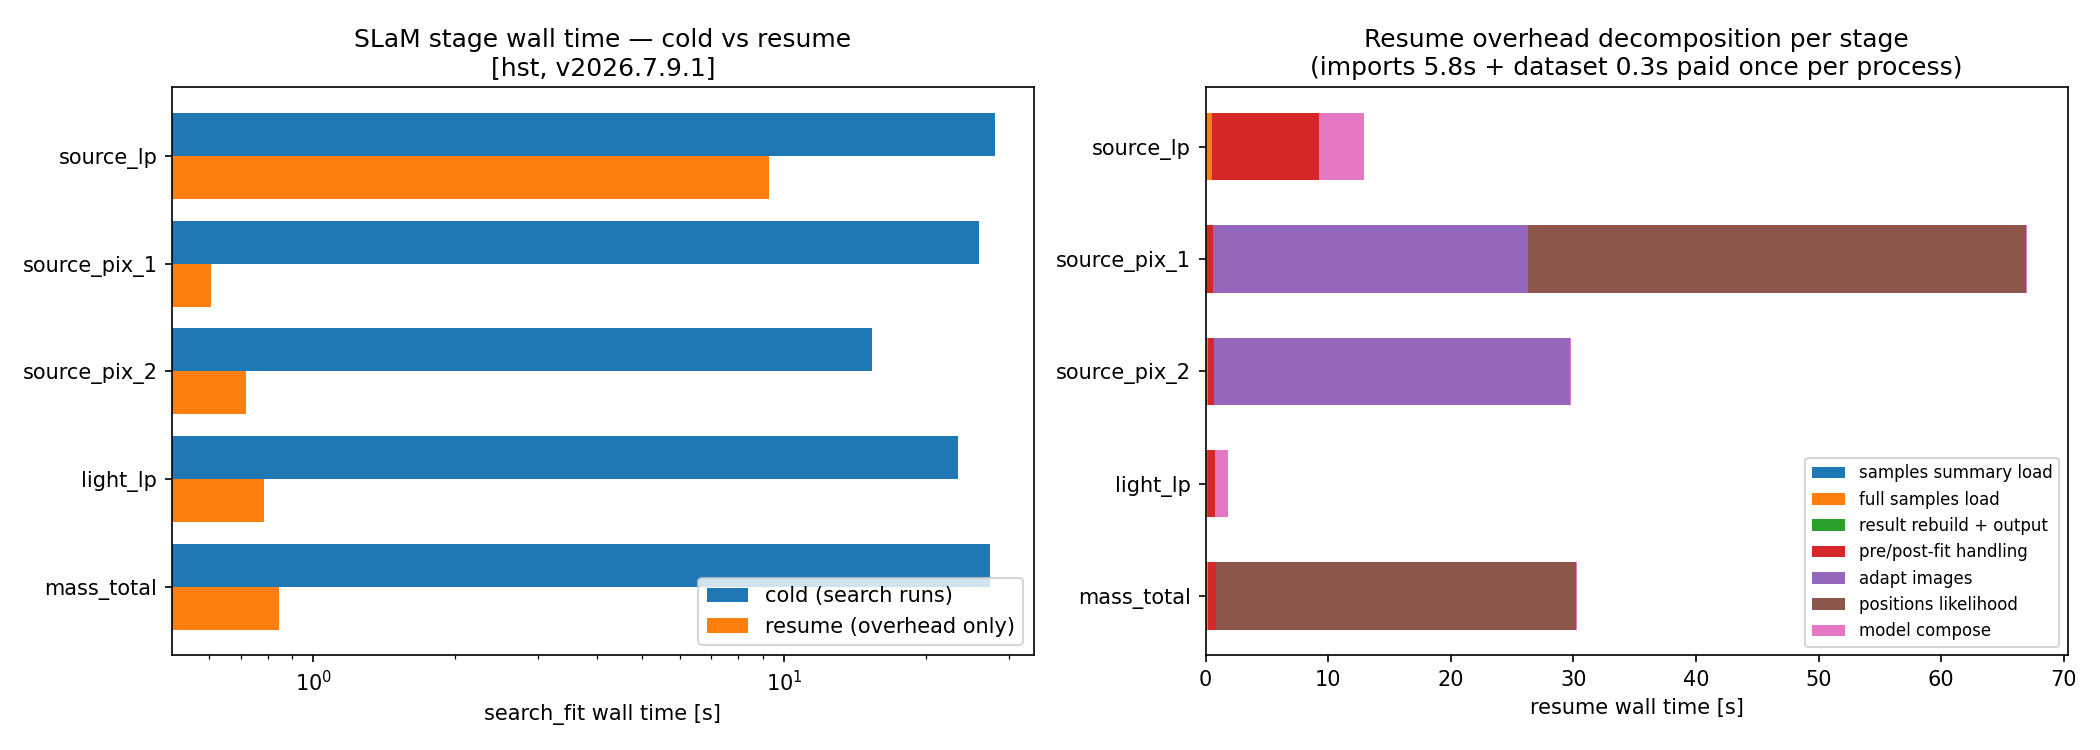
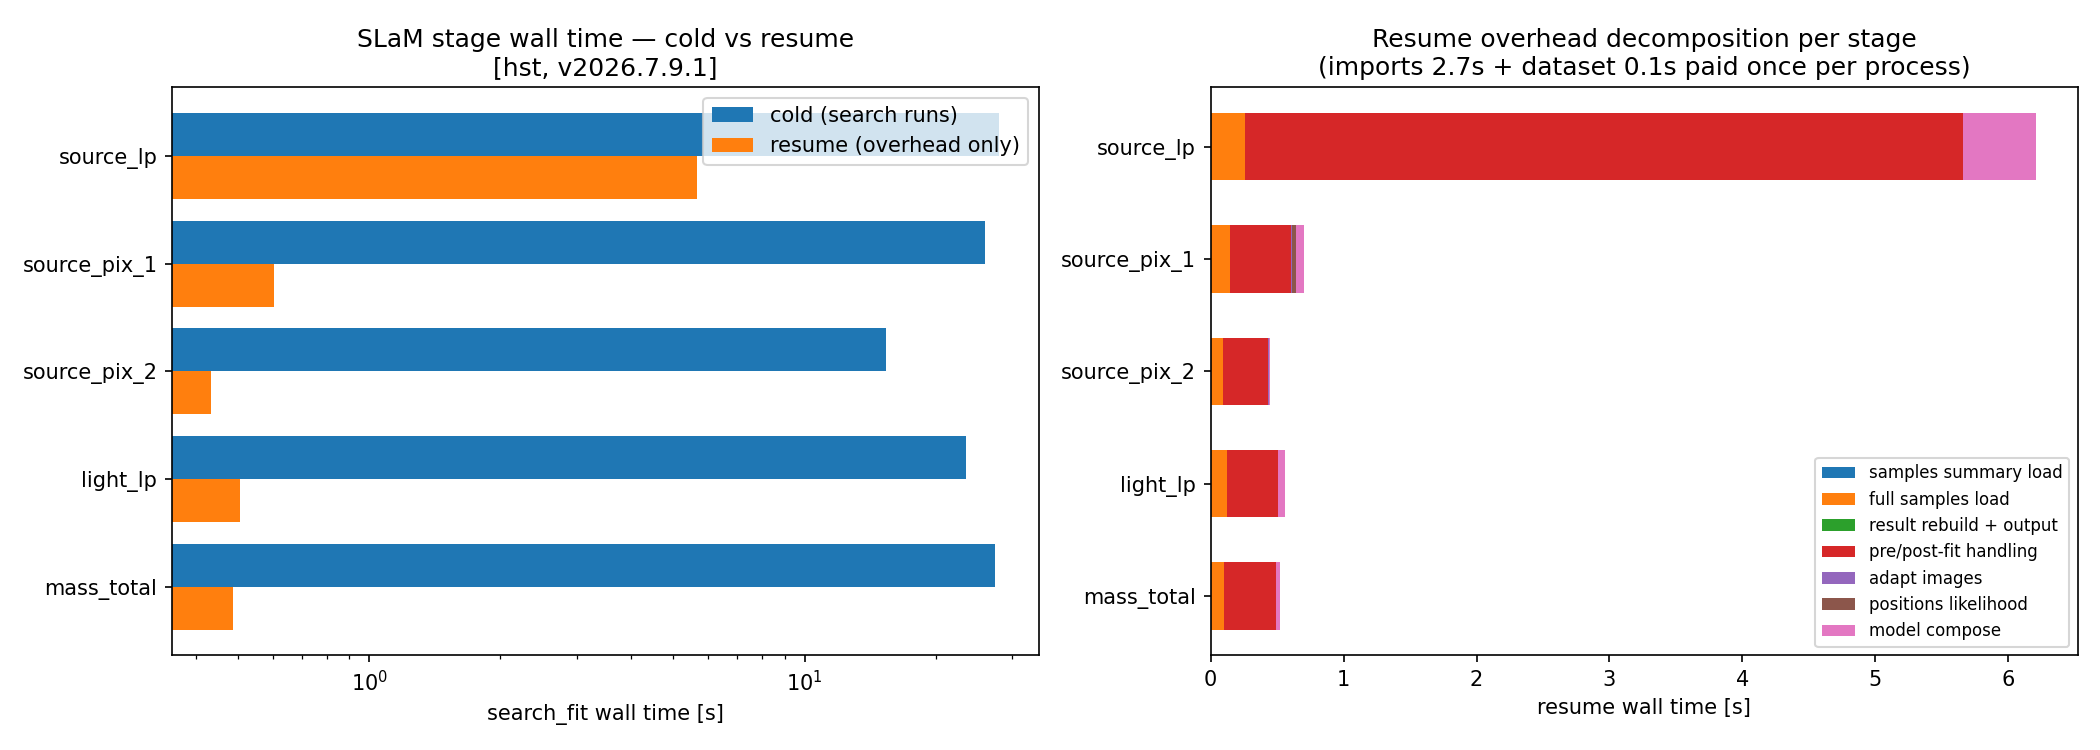
Remove the bypass-.completed stopgap; record post-fast-path numbers
The runtime patch marking bypassed fits complete is a no-op since
PyAutoFit#1388 landed the fix in _fit_bypass_test_mode. End-to-end
revalidation without it: cold 159s -> any resume ~11-13s (the cold run
now writes the fast-path caches itself; PyAutoGalaxy#504+PyAutoLens#619
+ Fit#1390). README gains the post-fast-path reference block; the
_testmode artifact carries the new run records.

Also fixes the two CI-blocking ruff errors on main in
jax_compile/trace_profile.py (unclaimed subtree): the import needs
'# isort: skip' — it depends on the preceding sys.path insert, so
ruff --fix would have broken it — plus an f-string without
placeholders. The repo lint gate runs 'ruff check .' on every PR, so
this debt blocked all PRs.

diff --git a/pipeline_resume/slam_resume.py b/pipeline_resume/slam_resume.py
@@ -167,18 +167,6 @@ def _install_resume_timers():
     _wrap(DirectoryPaths, "load_samples_summary", "samples_summary_load")
     _wrap(DirectoryPaths, "load_samples", "samples_load")
 
-    # PyAutoFit's _fit_bypass_test_mode returns without paths.completed(),
-    # so a bypassed stage is never seen as complete and a rerun re-bypasses
-    # the whole chain instead of resuming (library fix filed via intake).
-    # Mark completion here; harmless once the library writes the marker.
-    orig_bypass = abstract_search.NonLinearSearch._fit_bypass_test_mode
-
-    def bypass_with_marker(self, *args, **kwargs):
-        result = orig_bypass(self, *args, **kwargs)
-        self.paths.completed()
-        return result
-
-    abstract_search.NonLinearSearch._fit_bypass_test_mode = bypass_with_marker
 
 
 # -----------------------------------------------------------------------------

diff --git a/jax_compile/trace_profile.py b/jax_compile/trace_profile.py
@@ -31,7 +31,7 @@ _WORKSPACE_ROOT = Path(__file__).resolve().parents[1]
 if str(_WORKSPACE_ROOT) not in sys.path:
     sys.path.insert(0, str(_WORKSPACE_ROOT))
 
-from jax_compile.probe import build_objective, transformed_fn_and_arg, hardware_label
+from jax_compile.probe import build_objective, transformed_fn_and_arg, hardware_label  # noqa: E402  # isort: skip
 
 LIBRARY_KEYS = (
     "autofit",
@@ -89,7 +89,7 @@ def main():
         per_library[library_of(filename)] += tottime
 
     print(f"[trace_profile] {args.model_type} / {args.transform}: trace {trace_s:.2f}s")
-    print(f"[trace_profile] exclusive-time rollup (sums to ~trace time):")
+    print("[trace_profile] exclusive-time rollup (sums to ~trace time):")
     rollup = dict(sorted(per_library.items(), key=lambda kv: -kv[1]))
     for lib, seconds in rollup.items():
         print(f"[trace_profile]   {lib:<10} {seconds:7.2f}s  ({100 * seconds / trace_s:4.1f}%)")

diff --git a/pipeline_resume/README.md b/pipeline_resume/README.md
@@ -64,7 +64,15 @@ Rules and known deltas:
   prior-median model (right size, wrong values) — timing-honest, not
   science-honest.
 
-### Reference numbers (2026-07-17, CPU, v2026.7.9.1, N=10000; moderate background load)
+### Post fast-path reference (2026-07-17 evening, after PyAutoGalaxy#504 + PyAutoLens#619 + PyAutoFit#1388/#1390)
+
+Cold 159s → **any resume ~11–13s**: the cold run now writes the per-stage caches itself
+(adapt images + solved positions memoized into each result's `files/` and preserved in
+the search zips), so every later resume pays only imports (~3s), the stage-1
+`check_likelihood_function` consistency recompute (~6s, config-gated) and ~0.1s/stage
+of loading. The pre-fix decomposition below is retained as the historical baseline.
+
+### Pre fast-path baseline (2026-07-17 morning, CPU, v2026.7.9.1, N=10000; moderate background load)
 
 Cold chain 205s → resume 148s of pure overhead, decomposed:
 